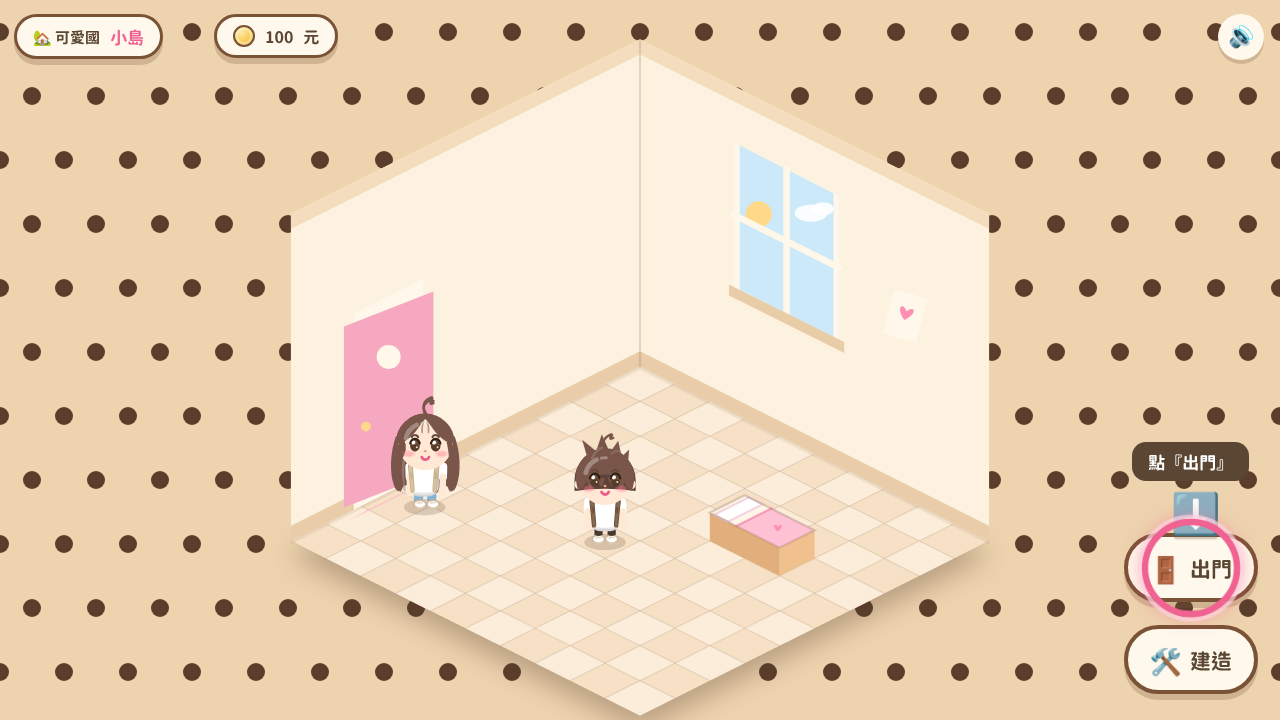
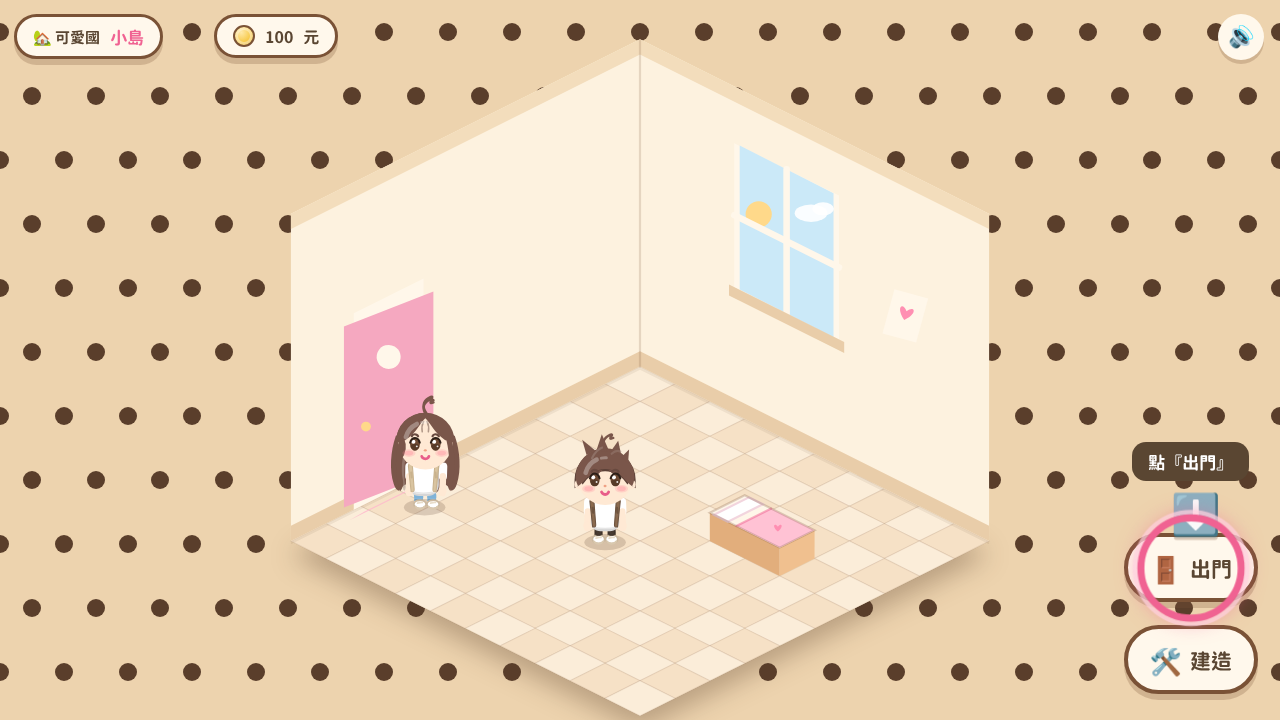
fix: 第九輪a——蓬蓬短髮髮線整體抬高（主帽-0.32R/髮片尖端眉眼之上/深底同步）不再壓眼；對話名牌下移不遮文字（.dlg-main padding-top 22px）

Changed region(s): [[0.875, 0.7028, 1.0, 0.8861], [0.4375, 0.6417, 0.5, 0.7028], [0.3125, 0.5806, 0.3438, 0.6417]]

diff --git a/js/character.js b/js/character.js
@@ -700,12 +700,17 @@ function drawLongBangsCap(ctx, c, x, y, R, r) {
 
 /* 蓬蓬短髮：深色底＋耳朵＋平滑髮線＋四撮寬圓髮片＋四顆頭頂碎刺（對應小島男版） */
 function drawShortBangsCap(ctx, c, x, y, R, r) {
-  /* 深色底（髮際線加層 depth） */
+  /* 深色底（髮際線加層 depth；髮線與主帽同步抬高，不蓋眼睛） */
   ctx.fillStyle = shade(c.hairColor, -0.25);
   ctx.beginPath();
   ctx.arc(x, y + R * 0.08, R + 3, Math.PI, Math.PI * 2);
-  ctx.lineTo(x + R + 3, y + R * 0.48);
-  ctx.quadraticCurveTo(x, y + R * 0.32, x - R - 3, y + R * 0.48);
+  ctx.lineTo(x + R + 3, y + R * 0.38);
+  ctx.quadraticCurveTo(x + R * 0.88, y + R * 0.28, x + R * 0.8, y + R * 0.22);
+  ctx.quadraticCurveTo(x + R * 0.64, y, x + R * 0.48, y - R * 0.1);
+  ctx.quadraticCurveTo(x + R * 0.24, y - R * 0.24, x, y - R * 0.24);
+  ctx.quadraticCurveTo(x - R * 0.24, y - R * 0.24, x - R * 0.48, y - R * 0.1);
+  ctx.quadraticCurveTo(x - R * 0.64, y, x - R * 0.8, y + R * 0.22);
+  ctx.quadraticCurveTo(x - R * 0.88, y + R * 0.28, x - R - 3, y + R * 0.38);
   ctx.closePath();
   ctx.fill();
   /* 耳朵 */
@@ -724,22 +729,22 @@ function drawShortBangsCap(ctx, c, x, y, R, r) {
   ctx.fillStyle = c.hairColor;
   ctx.beginPath();
   ctx.arc(x, y, r, Math.PI, Math.PI * 2);
-  ctx.quadraticCurveTo(x + R * 1.04, y + R * 0.32, x + R * 0.98, y + R * 0.48);
-  ctx.quadraticCurveTo(x + R * 0.88, y + R * 0.44, x + R * 0.8, y + R * 0.32);
-  ctx.quadraticCurveTo(x + R * 0.64, y + R * 0.08, x + R * 0.48, y);
-  ctx.quadraticCurveTo(x + R * 0.24, y - R * 0.12, x, y - R * 0.12);
-  ctx.quadraticCurveTo(x - R * 0.24, y - R * 0.12, x - R * 0.48, y);
-  ctx.quadraticCurveTo(x - R * 0.64, y + R * 0.08, x - R * 0.8, y + R * 0.32);
-  ctx.quadraticCurveTo(x - R * 0.88, y + R * 0.44, x - R * 0.98, y + R * 0.48);
-  ctx.quadraticCurveTo(x - R * 1.04, y + R * 0.32, x - r, y);
+  ctx.quadraticCurveTo(x + R * 1.04, y + R * 0.26, x + R * 0.98, y + R * 0.3);
+  ctx.quadraticCurveTo(x + R * 0.9, y + R * 0.24, x + R * 0.8, y + R * 0.14);
+  ctx.quadraticCurveTo(x + R * 0.62, y - R * 0.06, x + R * 0.48, y - R * 0.18);
+  ctx.quadraticCurveTo(x + R * 0.24, y - R * 0.32, x, y - R * 0.32);
+  ctx.quadraticCurveTo(x - R * 0.24, y - R * 0.32, x - R * 0.48, y - R * 0.18);
+  ctx.quadraticCurveTo(x - R * 0.62, y - R * 0.06, x - R * 0.8, y + R * 0.14);
+  ctx.quadraticCurveTo(x - R * 0.9, y + R * 0.24, x - R * 0.98, y + R * 0.3);
+  ctx.quadraticCurveTo(x - R * 1.04, y + R * 0.26, x - r, y);
   ctx.closePath();
   ctx.fill();
-  /* 四撮寬圓瀏海髮片（不對稱，髮片間露出額頭） */
+  /* 四撮寬圓瀏海髮片（不對稱；尖端全在眉眼之上，露出整片額頭） */
   for (const t of [
-    [-0.72, 0.04, -0.62, 0.34, -0.52, 0.38, -0.46, 0.28, -0.4, -0.08],
-    [-0.32, -0.04, -0.22, 0.3, -0.12, 0.34, -0.06, 0.22, 0, 0.02],
-    [0.08, -0.04, 0.18, 0.26, 0.28, 0.3, 0.34, 0.2, 0.4, 0.02],
-    [0.42, 0.04, 0.52, 0.36, 0.62, 0.4, 0.68, 0.3, 0.74, 0.1],
+    [-0.8, -0.14, -0.7, -0.02, -0.58, -0.04, -0.48, -0.16, -0.42, -0.26],
+    [-0.46, -0.22, -0.36, -0.08, -0.26, -0.12, -0.16, -0.24, -0.08, -0.3],
+    [0.12, -0.3, 0.2, -0.24, 0.3, -0.14, 0.4, -0.1, 0.46, -0.22],
+    [0.5, -0.24, 0.58, -0.1, 0.66, -0.06, 0.74, -0.02, 0.78, -0.08],
   ]) {
     ctx.beginPath();
     ctx.moveTo(x + t[0] * R, y + t[1] * R);

diff --git a/css/style.css b/css/style.css
@@ -354,7 +354,7 @@ body {
   border-radius: 50%;
   display: block;
 }
-.dlg-main { flex: 1; min-height: 74px; position: relative; padding-top: 6px; }
+.dlg-main { flex: 1; min-height: 84px; position: relative; padding-top: 22px; }
 .dlg-name {
   position: absolute; top: -18px; left: -8px;
   background: var(--pink);
